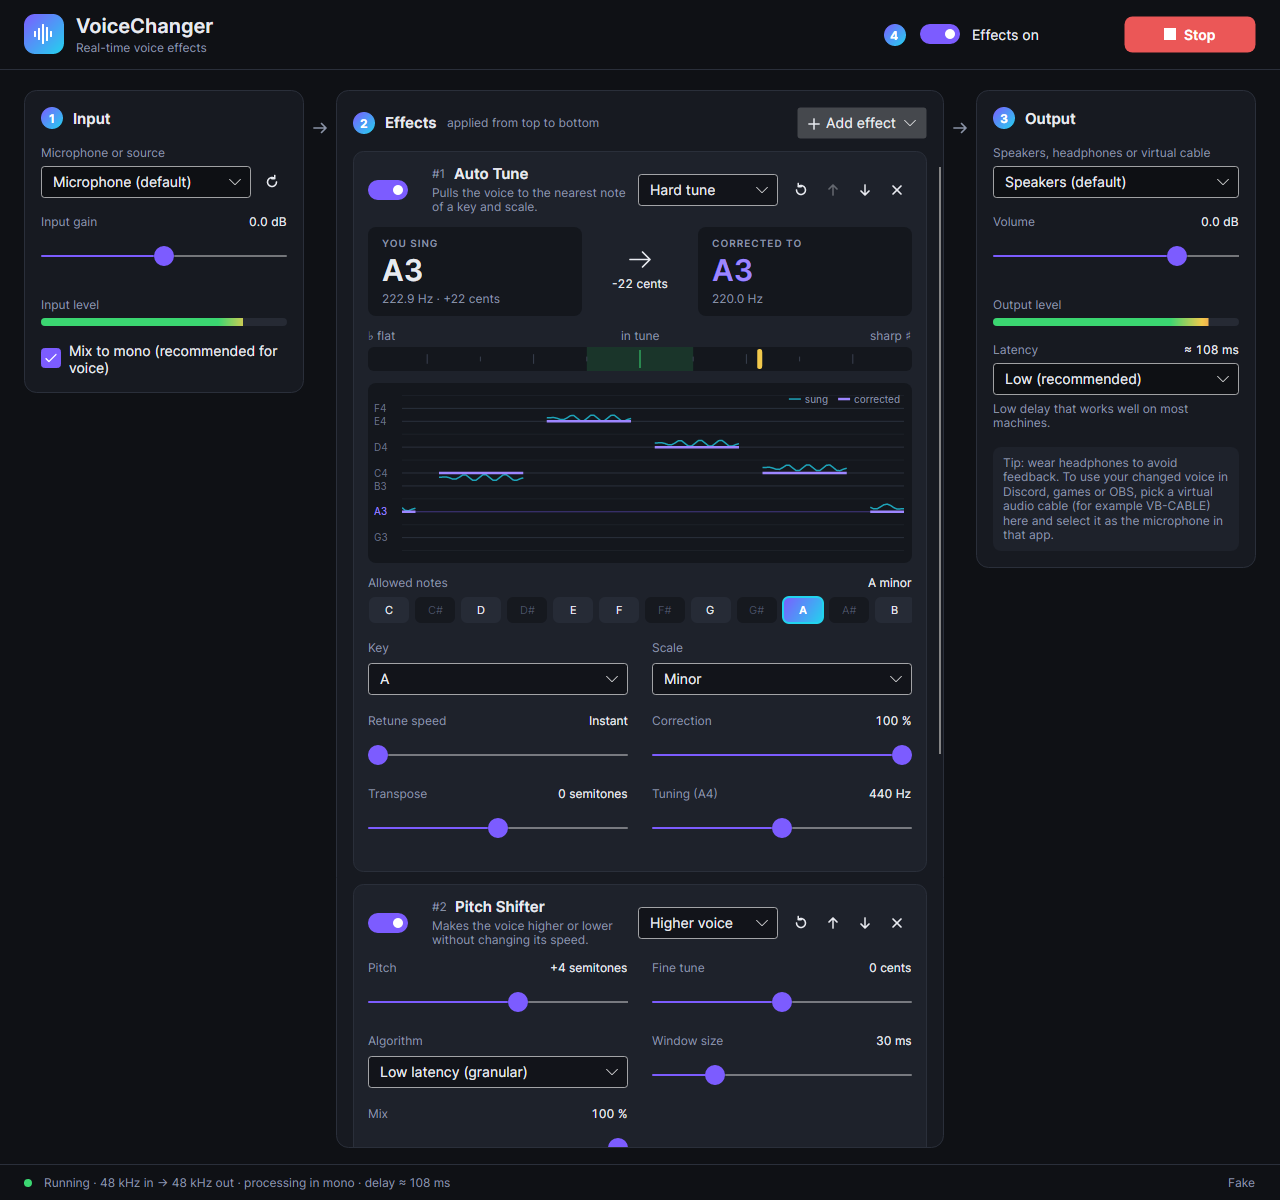
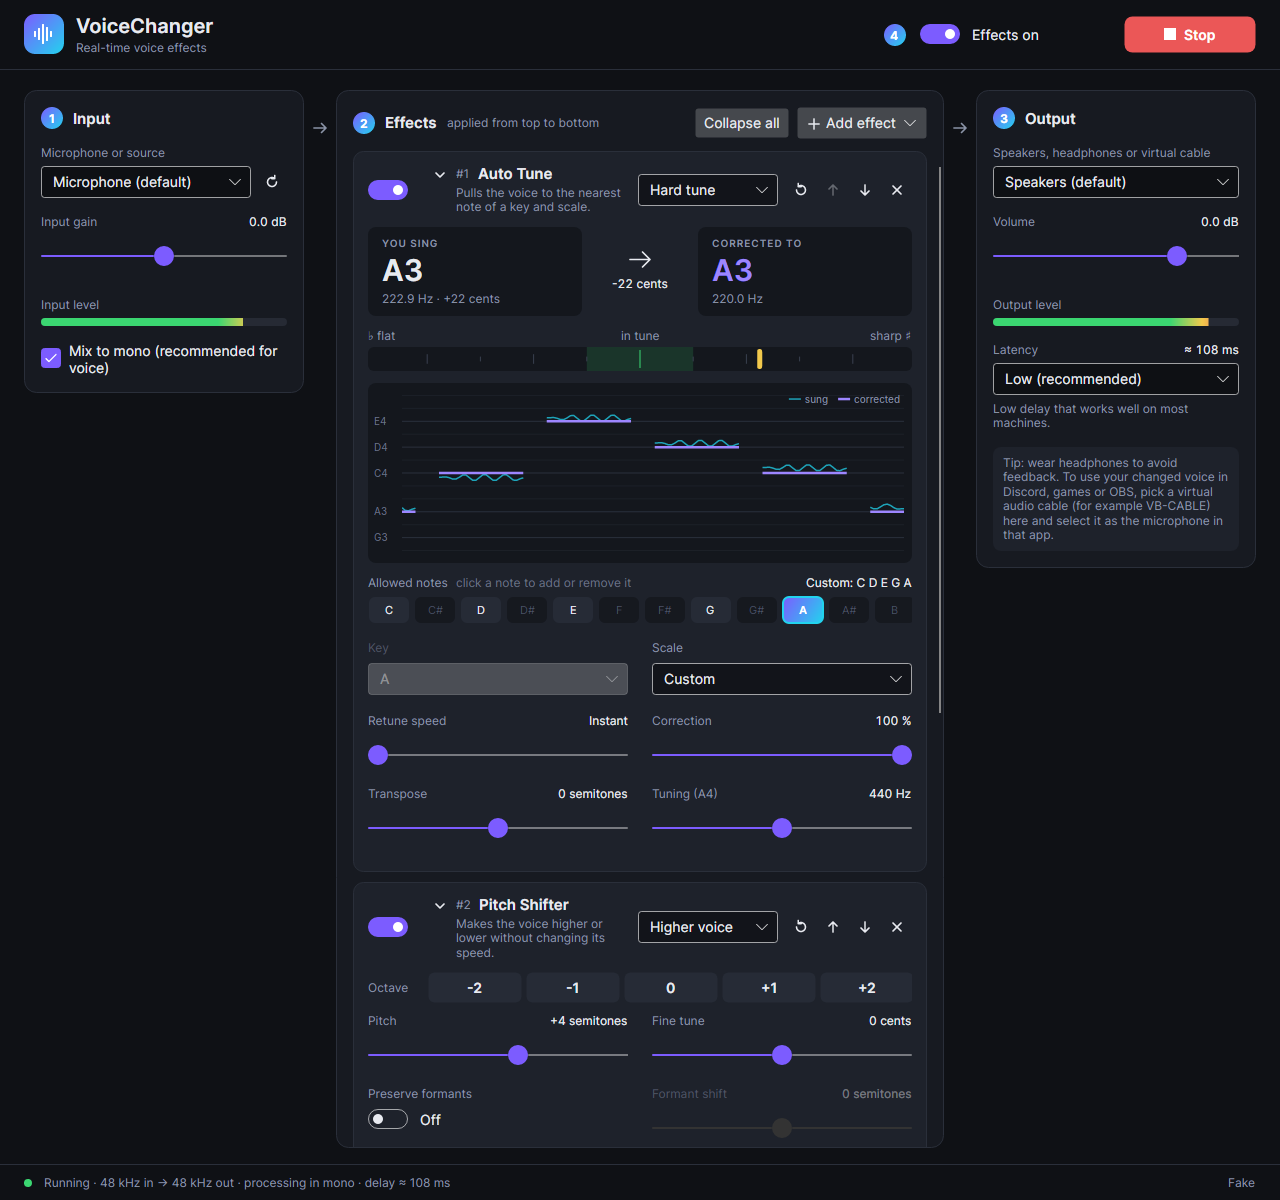
Let auto tune use any set of notes you pick
Clicking a note on the auto tune's note strip now allows it or leaves it
out. The first click turns the selected scale into a Custom scale with
the same notes, so picking notes starts from what is shown; the last
note can't be removed. Custom notes are saved with the other settings,
the key is greyed out where it doesn't apply (chromatic and custom), and
the summary and pitch graph follow the picked notes.

Claude-Session: https://claude.ai/code/session_01TgPKXxHfwwwNGyxi2ih6qo

diff --git a/src/VoiceChanger.App/ViewModels/AutoTuneViewModel.cs b/src/VoiceChanger.App/ViewModels/AutoTuneViewModel.cs
@@ -1,17 +1,27 @@
 using System.Globalization;
 using CommunityToolkit.Mvvm.ComponentModel;
+using CommunityToolkit.Mvvm.Input;
 using VoiceChanger.Core.Dsp;
 using VoiceChanger.Core.Effects;
 
 namespace VoiceChanger.App.ViewModels;
 
-/// <summary>One of the twelve notes in the scale strip.</summary>
-public sealed partial class NoteChipViewModel(string name) : ObservableObject
+/// <summary>One of the twelve notes in the scale strip. Clicking it adds it to the allowed notes or removes it.</summary>
+public sealed partial class NoteChipViewModel(int pitchClass, IRelayCommand toggle) : ObservableObject
 {
-    public string Name { get; } = name;
+    public int PitchClass { get; } = pitchClass;
+
+    public string Name => MusicalScale.NoteNames[PitchClass];
+
+    public IRelayCommand ToggleCommand { get; } = toggle;
 
     [ObservableProperty]
+    [NotifyPropertyChangedFor(nameof(ToolTip))]
     public partial bool IsInScale { get; set; }
+
+    public string ToolTip => IsInScale
+        ? $"{Name} is allowed. Click to leave it out."
+        : $"{Name} is left out. Click to allow it.";
 
     /// <summary>The note the voice is being corrected to.</summary>
     [ObservableProperty]
@@ -40,12 +50,18 @@ public sealed partial class AutoTuneViewModel : EffectViewModel
         : base(autoTune, description)
     {
         _autoTune = autoTune;
-        Notes = MusicalScale.NoteNames.Select(n => new NoteChipViewModel(n)).ToList();
+        Notes = Enumerable.Range(0, 12)
+            .Select(pc => new NoteChipViewModel(pc, new RelayCommand(() => _autoTune.ToggleNote(pc))))
+            .ToList();
+        Settings = Parameters.Where(p => p.Parameter != autoTune.CustomNotes).ToList();
         UpdateScale();
         Clear("Press Start to see the pitch of your voice.");
     }
 
     public IReadOnlyList<NoteChipViewModel> Notes { get; }
+
+    /// <summary>The settings shown as controls (the custom notes are picked on the note strip instead).</summary>
+    public IReadOnlyList<ParameterViewModel> Settings { get; }
 
     /// <summary>Scale and retune speed; while singing also the live note, e.g. "A3 → A3 · A minor · instant retune".</summary>
     public override string Summary
@@ -58,7 +74,12 @@ public sealed partial class AutoTuneViewModel : EffectViewModel
                 parts.Add($"{InputNote} → {OutputNote}");
             }
 
-            parts.Add(RootPitchClass < 0 ? "Chromatic" : ScaleName);
+            parts.Add((ScaleType)_autoTune.Scale.IntValue switch
+            {
+                ScaleType.Chromatic => "Chromatic",
+                ScaleType.Custom => $"custom scale ({MusicalScale.CountNotes(ScaleMask)} notes)",
+                _ => ScaleName,
+            });
             parts.Add(_autoTune.RetuneSpeed.Value <= 0 ? "instant retune" : _autoTune.RetuneSpeed.FormattedValue + " retune");
             if (_autoTune.Transpose.IntValue != 0)
             {
@@ -215,12 +236,17 @@ public sealed partial class AutoTuneViewModel : EffectViewModel
     private void UpdateScale()
     {
         int mask = _autoTune.ScaleMask;
-        bool chromatic = (ScaleType)_autoTune.Scale.IntValue == ScaleType.Chromatic;
+        var scale = (ScaleType)_autoTune.Scale.IntValue;
         ScaleMask = mask;
-        RootPitchClass = chromatic ? -1 : _autoTune.Key.IntValue;
-        ScaleName = chromatic
-            ? "Chromatic (all notes)"
-            : $"{MusicalScale.NoteNames[_autoTune.Key.IntValue]} {MusicalScale.ScaleNames[_autoTune.Scale.IntValue].ToLowerInvariant()}";
+
+        // Chromatic and custom scales have no key, so no root note to highlight.
+        RootPitchClass = scale is ScaleType.Chromatic or ScaleType.Custom ? -1 : _autoTune.Key.IntValue;
+        ScaleName = scale switch
+        {
+            ScaleType.Chromatic => "Chromatic (all notes)",
+            ScaleType.Custom => "Custom: " + MusicalScale.FormatNotes(mask),
+            _ => $"{MusicalScale.NoteNames[_autoTune.Key.IntValue]} {MusicalScale.ScaleNames[_autoTune.Scale.IntValue].ToLowerInvariant()}",
+        };
         for (int i = 0; i < Notes.Count; i++)
         {
             Notes[i].IsInScale = MusicalScale.IsInScale(i, mask);

diff --git a/tests/VoiceChanger.App.Tests/AutoTuneUiTests.cs b/tests/VoiceChanger.App.Tests/AutoTuneUiTests.cs
@@ -166,6 +166,47 @@ public sealed class AutoTuneUiTests : IDisposable
     }
 
     [AvaloniaFact]
+    public void Clicking_notes_picks_exactly_the_allowed_notes()
+    {
+        var (window, vm, _, autoTune) = ShowWithAutoTune();
+        autoTune.Parameters.Single(p => p.Parameter.Id == "key").SelectedIndex = 0;
+        autoTune.Parameters.Single(p => p.Parameter.Id == "scale").SelectedIndex = (int)ScaleType.MajorPentatonic;
+        Dispatcher.UIThread.RunJobs();
+        Assert.Equal("C major pentatonic", autoTune.ScaleName);
+
+        // Click F on the note strip: C major pentatonic plus F.
+        var editor = window.GetVisualDescendants().OfType<AutoTuneEditor>().Single();
+        var chips = editor.GetVisualDescendants().OfType<Button>().Where(b => b.Classes.Contains("chip")).ToList();
+        Assert.Equal(12, chips.Count);
+        var f = chips.Single(c => (string?)c.Content == "F");
+        Assert.Contains("Click to allow it", ToolTip.GetTip(f) as string);
+        f.Command!.Execute(null);
+        Dispatcher.UIThread.RunJobs();
+
+        Assert.Equal("Custom: C D E F G A", autoTune.ScaleName);
+        Assert.Equal("Custom: C D E F G A", editor.GetVisualDescendants().OfType<TextBlock>().Single(t => t.Name == "ScaleNameText").Text);
+        Assert.True(autoTune.Notes[5].IsInScale);
+        Assert.Contains("inScale", f.Classes);
+        Assert.Equal(-1, autoTune.RootPitchClass);
+
+        // Click it again, and A: back to five notes, without A.
+        f.Command!.Execute(null);
+        chips.Single(c => (string?)c.Content == "A").Command!.Execute(null);
+        Dispatcher.UIThread.RunJobs();
+        Assert.Equal("Custom: C D E G", autoTune.ScaleName);
+        autoTune.IsCollapsed = true;
+        Assert.Equal("custom scale (4 notes) · 20 ms retune", autoTune.Subtitle);
+
+        // The key no longer applies, and the raw note list is not shown as a slider.
+        var editors = editor.GetVisualDescendants().OfType<ParameterEditor>().Select(e => (ParameterViewModel)e.DataContext!).ToList();
+        Assert.DoesNotContain(editors, p => p.Parameter.Id == "notes");
+        Assert.False(editors.Single(p => p.Parameter.Id == "key").IsAvailable);
+
+        window.Close();
+        vm.Dispose();
+    }
+
+    [AvaloniaFact]
     public void Auto_tune_settings_are_saved_and_restored()
     {
         var store = new SettingsStore(Path.Combine(_directory, "settings.json"));
@@ -175,12 +216,14 @@ public sealed class AutoTuneUiTests : IDisposable
         effect.Key.Value = 7;
         effect.Scale.Value = (int)ScaleType.Major;
         effect.RetuneSpeed.Value = 0;
+        effect.ToggleNote(6); // G major without its F#
         first.Dispose();
 
         var second = new MainWindowViewModel(new FakeAudioBackend(), store);
         var restored = (AutoTuneEffect)second.Effects.OfType<AutoTuneViewModel>().Single().Effect;
         Assert.Equal(7, restored.Key.Value);
-        Assert.Equal((int)ScaleType.Major, restored.Scale.Value);
+        Assert.Equal((int)ScaleType.Custom, restored.Scale.Value);
+        Assert.Equal("C D E G A B", restored.CustomNotes.FormattedValue);
         Assert.Equal(0, restored.RetuneSpeed.Value);
         second.Dispose();
     }
@@ -192,9 +235,14 @@ public sealed class AutoTuneUiTests : IDisposable
         autoTune.Parameters.Single(p => p.Parameter.Id == "key").SelectedIndex = 9;
         autoTune.Parameters.Single(p => p.Parameter.Id == "scale").SelectedIndex = (int)ScaleType.NaturalMinor;
         autoTune.SelectedPreset = autoTune.Presets.Single(p => p.Name == "Hard tune");
+
+        // Click F and B off the note strip: A minor without them.
+        autoTune.Notes[5].ToggleCommand.Execute(null);
+        autoTune.Notes[11].ToggleCommand.Execute(null);
+        Assert.Equal("Custom: C D E G A", autoTune.ScaleName);
         vm.Start();
 
-        // A slightly out-of-tune phrase in A minor with vibrato and slides: A3 C4 E4 D4 C4.
+        // A slightly out-of-tune phrase with vibrato and slides: A3 C4 E4 D4 C4.
         double[] notes = [57.3, 60 - 0.35, 64.25, 62 + 0.3, 60.4];
         double phase = 0, time = 0;
         foreach (double note in notes)

diff --git a/src/VoiceChanger.Core/Effects/AutoTuneEffect.cs b/src/VoiceChanger.Core/Effects/AutoTuneEffect.cs
@@ -29,6 +29,9 @@ public sealed class AutoTuneEffect : AudioEffect
 {
     public const string Type = "auto-tune";
 
+    /// <summary>C major: the custom scale starts from these notes until others are picked.</summary>
+    public const int DefaultCustomNotes = 0b1010_1011_0101;
+
     private const double ChunkSeconds = 0.005;
 
     // A short detection window and hop keep the analysis recent. The detector still reports a pitch
@@ -74,7 +77,15 @@ public sealed class AutoTuneEffect : AudioEffect
             description: "Root note of the song's key."));
         Scale = AddParameter(EffectParameter.Choice(
             "scale", "Scale", MusicalScale.ScaleNames,
-            description: "Notes the voice is pulled to. Chromatic allows all twelve notes and works with any song."));
+            description: "Notes the voice is pulled to. Chromatic allows all twelve notes and works with any song. Custom uses the notes you pick."));
+
+        // Chromatic and custom scales don't depend on a key.
+        Key.AvailableWhen(() => (ScaleType)Scale.IntValue is not (ScaleType.Chromatic or ScaleType.Custom));
+        CustomNotes = AddParameter(EffectParameter.Integer(
+            "notes", "Custom notes", 1, 0xFFF, DefaultCustomNotes,
+            formatter: v => MusicalScale.FormatNotes((int)MathF.Round(v)),
+            description: "The notes of the custom scale (one bit per note, C first).")
+            .AvailableWhen(() => (ScaleType)Scale.IntValue == ScaleType.Custom));
         RetuneSpeed = AddParameter(EffectParameter.Continuous(
             "retune", "Retune speed", 0, 400, 20, "ms", decimals: 0,
             formatter: v => v <= 0 ? "Instant" : v.ToString("0", CultureInfo.CurrentCulture) + " ms",
@@ -102,6 +113,9 @@ public sealed class AutoTuneEffect : AudioEffect
 
     public EffectParameter Scale { get; }
 
+    /// <summary>Notes of the custom scale as a bit mask (bit 0 = C). Used while <see cref="Scale"/> is <see cref="ScaleType.Custom"/>.</summary>
+    public EffectParameter CustomNotes { get; }
+
     public EffectParameter RetuneSpeed { get; }
 
     public EffectParameter Amount { get; }
@@ -110,8 +124,28 @@ public sealed class AutoTuneEffect : AudioEffect
 
     public EffectParameter Reference { get; }
 
-    /// <summary>Pitch classes of the selected key and scale (bit 0 = C).</summary>
-    public int ScaleMask => MusicalScale.ScaleMask((ScaleType)Scale.IntValue, Key.IntValue);
+    /// <summary>Pitch classes of the selected key and scale, or the custom notes (bit 0 = C).</summary>
+    public int ScaleMask => (ScaleType)Scale.IntValue == ScaleType.Custom
+        ? CustomNotes.IntValue & 0xFFF
+        : MusicalScale.ScaleMask((ScaleType)Scale.IntValue, Key.IntValue);
+
+    /// <summary>
+    /// Adds a note to the allowed notes or removes it. A preset scale becomes a custom scale with the
+    /// same notes first, so picking notes always starts from what is selected. The last note can't be
+    /// removed. Returns whether anything changed.
+    /// </summary>
+    public bool ToggleNote(int pitchClass)
+    {
+        int mask = ScaleMask ^ (1 << MusicalScale.PitchClass(pitchClass));
+        if (mask == 0)
+        {
+            return false;
+        }
+
+        CustomNotes.Value = mask;
+        Scale.Value = (int)ScaleType.Custom;
+        return true;
+    }
 
     public override int LatencyFrames => _shifter?.LatencyFrames ?? 0;
 

diff --git a/tests/VoiceChanger.Core.Tests/AutoTuneTests.cs b/tests/VoiceChanger.Core.Tests/AutoTuneTests.cs
@@ -160,6 +160,59 @@ public class AutoTuneEffectTests
         Assert.InRange(Cents(DominantFrequency(output.AsSpan(SampleRate / 2), SampleRate), expected), -3, 3);
     }
 
+    [Theory]
+    [InlineData(300, 329.63)] // D4 +37 cents: no D in C-E-G, E is closer than C
+    [InlineData(285, 261.63)] // C#4 +48 cents: C is closer than E
+    [InlineData(370, 392.00)] // F#4 +2 cents: only G is near
+    public void Custom_notes_are_the_only_targets(double sung, double expected)
+    {
+        int cMajorTriad = (1 << 0) | (1 << 4) | (1 << 7);
+        var (effect, output) = Run(_ => sung, 1.2, e =>
+        {
+            e.Scale.Value = (int)ScaleType.Custom;
+            e.CustomNotes.Value = cMajorTriad;
+        });
+
+        Assert.Equal(cMajorTriad, effect.ScaleMask);
+        Assert.Equal("C E G", effect.CustomNotes.FormattedValue);
+        Assert.InRange(Cents(DominantFrequency(output.AsSpan(SampleRate / 2), SampleRate), expected), -3, 3);
+    }
+
+    [Fact]
+    public void Toggling_a_note_starts_a_custom_scale_from_the_current_one()
+    {
+        var effect = new AutoTuneEffect();
+        effect.Key.Value = 9;
+        effect.Scale.Value = (int)ScaleType.NaturalMinor;
+        int aMinor = MusicalScale.ScaleMask(ScaleType.NaturalMinor, 9);
+
+        // Adding G# to A minor gives the notes of A harmonic minor plus G.
+        Assert.True(effect.ToggleNote(8));
+        Assert.Equal((int)ScaleType.Custom, effect.Scale.Value);
+        Assert.Equal(aMinor | (1 << 8), effect.ScaleMask);
+        Assert.Equal("C D E F G G# A B", effect.CustomNotes.FormattedValue);
+
+        // ...and then G again leaves exactly A harmonic minor.
+        Assert.True(effect.ToggleNote(7));
+        Assert.Equal(MusicalScale.ScaleMask(ScaleType.HarmonicMinor, 9), effect.ScaleMask);
+
+        // The key only matters for the named scales.
+        Assert.False(effect.Key.IsAvailable);
+        Assert.True(effect.CustomNotes.IsAvailable);
+        effect.Scale.Value = (int)ScaleType.Chromatic;
+        Assert.False(effect.Key.IsAvailable);
+        Assert.False(effect.CustomNotes.IsAvailable);
+        effect.Scale.Value = (int)ScaleType.Major;
+        Assert.True(effect.Key.IsAvailable);
+
+        // Choosing Custom again brings back the picked notes; the last note can't be removed.
+        effect.Scale.Value = (int)ScaleType.Custom;
+        Assert.Equal(MusicalScale.ScaleMask(ScaleType.HarmonicMinor, 9), effect.ScaleMask);
+        effect.CustomNotes.Value = 1 << 2;
+        Assert.False(effect.ToggleNote(2));
+        Assert.Equal(1 << 2, effect.ScaleMask);
+    }
+
     [Fact]
     public void Amount_transpose_and_reference_change_the_target()
     {

diff --git a/src/VoiceChanger.Core/Dsp/MusicalScale.cs b/src/VoiceChanger.Core/Dsp/MusicalScale.cs
@@ -12,6 +12,9 @@ public enum ScaleType
     Blues,
     Dorian,
     Mixolydian,
+
+    /// <summary>Notes picked one by one (see <see cref="Effects.AutoTuneEffect.CustomNotes"/>).</summary>
+    Custom,
 }
 
 /// <summary>Note, frequency and scale helpers. Notes are MIDI numbers: 60 is middle C (C4), 69 is A4.</summary>
@@ -20,7 +23,7 @@ public static class MusicalScale
     public static IReadOnlyList<string> NoteNames { get; } = ["C", "C#", "D", "D#", "E", "F", "F#", "G", "G#", "A", "A#", "B"];
 
     public static IReadOnlyList<string> ScaleNames { get; } =
-        ["Chromatic", "Major", "Minor", "Harmonic minor", "Major pentatonic", "Minor pentatonic", "Blues", "Dorian", "Mixolydian"];
+        ["Chromatic", "Major", "Minor", "Harmonic minor", "Major pentatonic", "Minor pentatonic", "Blues", "Dorian", "Mixolydian", "Custom"];
 
     public static double FrequencyToNote(double frequency, double referenceA4 = 440) =>
         69 + 12 * Math.Log2(frequency / referenceA4);
@@ -34,9 +37,14 @@ public static class MusicalScale
     /// <summary>Name with octave, e.g. "A4" or "C#3".</summary>
     public static string NoteName(int note) => NoteNames[PitchClass(note)] + (int)Math.Floor(note / 12.0 - 1);
 
-    /// <summary>Bit mask of the pitch classes in a scale (bit 0 = C).</summary>
+    /// <summary>Bit mask of the pitch classes in a scale (bit 0 = C). Custom scales have no fixed notes.</summary>
     public static int ScaleMask(ScaleType scale, int root)
     {
+        if (scale == ScaleType.Custom)
+        {
+            throw new ArgumentException("A custom scale has no fixed notes.", nameof(scale));
+        }
+
         int[] steps = scale switch
         {
             ScaleType.Chromatic => [0, 1, 2, 3, 4, 5, 6, 7, 8, 9, 10, 11],
@@ -61,6 +69,13 @@ public static class MusicalScale
     }
 
     public static bool IsInScale(int note, int mask) => (mask & (1 << PitchClass(note))) != 0;
+
+    /// <summary>The note names in a mask, e.g. "C D E G A".</summary>
+    public static string FormatNotes(int mask) =>
+        string.Join(" ", Enumerable.Range(0, 12).Where(pc => (mask & (1 << pc)) != 0).Select(pc => NoteNames[pc]));
+
+    /// <summary>Number of notes in a mask.</summary>
+    public static int CountNotes(int mask) => System.Numerics.BitOperations.PopCount((uint)(mask & 0xFFF));
 
     /// <summary>
     /// Describes a shift in whole octaves plus the remaining semitones, e.g. "+1 octave",

diff --git a/README.md b/README.md
@@ -88,14 +88,17 @@ Add it with **Add effect → Auto Tune**. While audio is running the card shows:
 - **Pitch graph:** the last five seconds of your sung pitch (cyan) and the corrected pitch (purple),
   drawn on note lines. The notes of the selected scale are labelled, and the key's root note is
   highlighted.
-- **Allowed notes:** the notes of the selected key and scale. The target note is filled in, and the
-  note you are closest to is outlined.
+- **Allowed notes:** the twelve notes, with the ones your voice can be pulled to lit up. The target
+  note is filled in, and the note you are closest to is outlined. **Click a note to allow it or leave
+  it out**: the scale becomes a *Custom* scale with exactly the notes you picked (starting from the
+  selected scale), shown as e.g. "Custom: C D E G A". Choose another scale to go back; choosing
+  *Custom* again brings your notes back.
 
 Settings:
 
 | Setting | What it does |
 | --- | --- |
-| Key and Scale | The notes your voice is pulled to. *Chromatic* (default) allows all twelve notes and works with any song. Also available: major, minor, harmonic minor, major/minor pentatonic, blues, Dorian and Mixolydian, in any key. |
+| Key and Scale | The notes your voice is pulled to. *Chromatic* (default) allows all twelve notes and works with any song. Also available: major, minor, harmonic minor, major/minor pentatonic, blues, Dorian and Mixolydian, in any key, and *Custom*: the notes you click on the note strip (the key doesn't apply to it). |
 | Retune speed | How fast the pitch moves to the note. *Instant* (0 ms) gives the hard, robotic sound and flattens vibrato. 20–80 ms sounds like a polished vocal. 150 ms and above corrects gently and keeps slides and vibrato. |
 | Correction | How much of the distance to the note is corrected. 100 % lands exactly on the note. |
 | Transpose | Moves the corrected notes up or down by up to an octave. |
